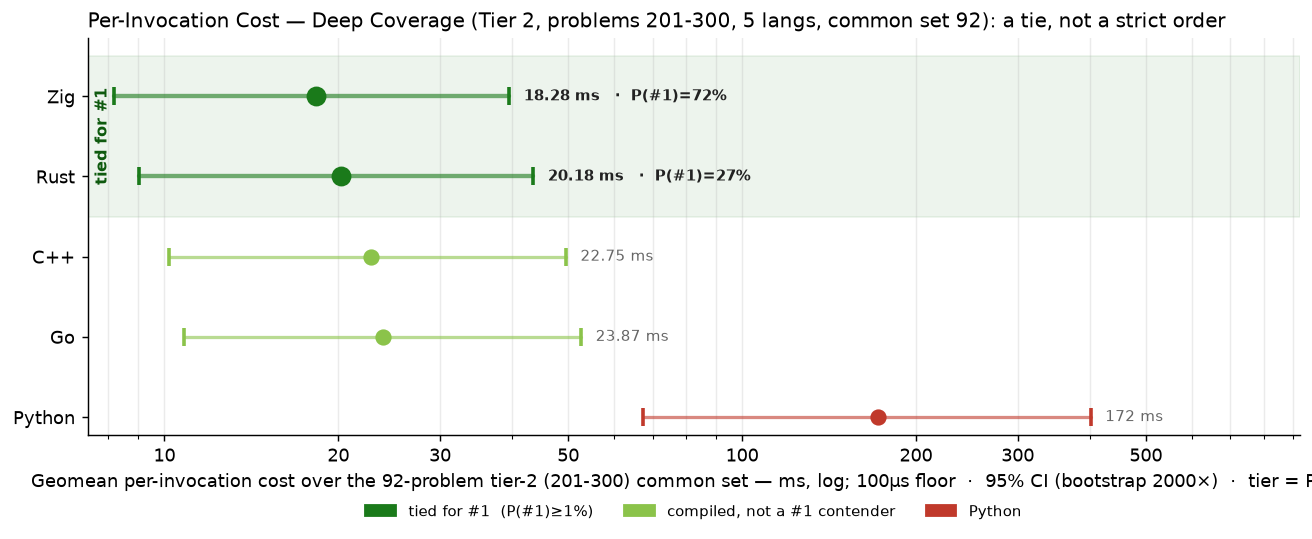
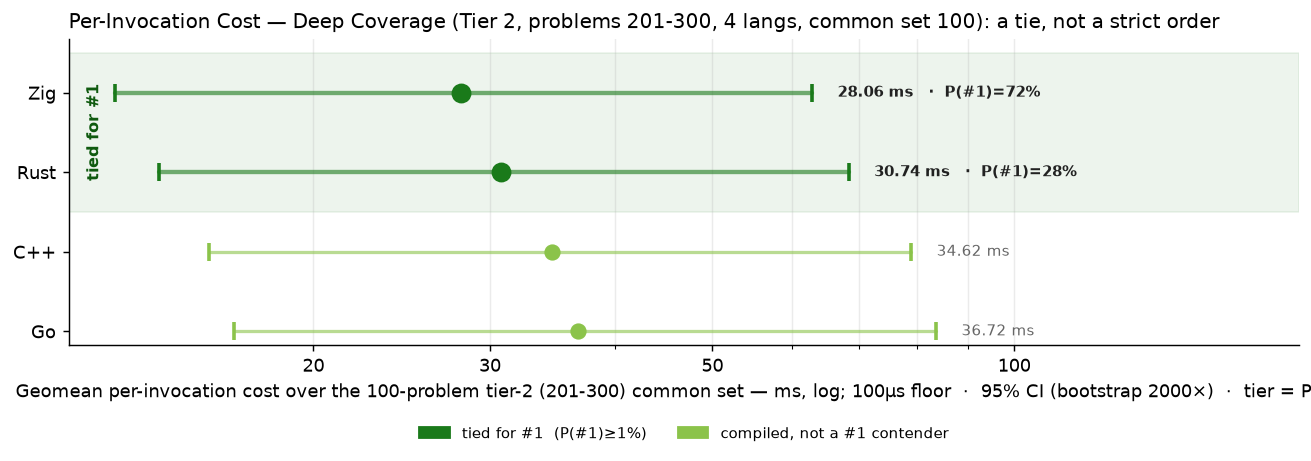
tiers: retire python from Deep Coverage; tier 2 complete at 4 langs

diff --git a/per_problem/per_problem_0201-0300.md b/per_problem/per_problem_0201-0300.md
@@ -1,4 +1,4 @@
-# Per-Problem Detail — Problems 0201–0300 (Deep Coverage, 5 langs)
+# Per-Problem Detail — Problems 0201–0300 (Deep Coverage, 4 langs)
 
 ⬅ [Back to RESULTS](../RESULTS.md)
 
@@ -6,111 +6,111 @@ Minimum internal time per fresh-process invocation (magnitude-adaptive
 samples, METHODOLOGY.md §3), one row per problem, one column per language
 in tier-1 display order (native → managed → interpreted).
 
-> _Only the 5 Deep Coverage languages are shown — the other 5 are tier-1-only_
+> _Only the 4 Deep Coverage languages are shown — the other 6 are tier-1-only_
 > _(capped at problem 200 by the project's language-cap policy)._
 
-| Problem | C++ | Rust | Zig | Go | Python |
-|---------|----:|----:|----:|----:|----:|
-| **p0201** | 499.02 ms | 36.91 ms | 42.69 ms | 518.61 ms | 506.55 ms |
-| **p0202** | 5.6 µs | 7.2 µs | 7.2 µs | 5.7 µs~ | 90.0 µs |
-| **p0203** | 100.5 µs | 49.4 µs | 84.7 µs | 80.2 µs | 345.0 µs |
-| **p0204** | 14.40 ms~ | 12.66 ms | 13.62 ms | 21.00 ms | 1.04 s |
-| **p0205** | 2.5 µs | 3.2 µs | 2.5 µs | 3.9 µs~ | 63.2 µs |
-| **p0206** | 50.03 ms | 76.18 ms | 39.29 ms | 62.85 ms | 3.72 s |
-| **p0207** | 307.1 µs | 216.8 µs | 311.0 µs | 145.8 µs | 8.42 ms |
-| **p0208** | 11.86 ms | 17.42 ms | 10.70 ms | 16.75 ms | 1.34 s |
-| **p0209** | 1.2 µs | 2.3 µs | <1 µs | 2.0 µs~ | 29.8 µs |
-| **p0210** | 455.52 ms | 775.66 ms | 341.24 ms | 274.76 ms | 1.04 s |
-| **p0211** | 3.79 s | 3.81 s | 3.80 s | 3.79 s | 10.57 s |
-| **p0212** | 6.04 s | 5.40 s | 5.32 s | 10.33 s | 17.53 s |
-| **p0213** | 88.20 ms | 81.19 ms | 167.34 ms | 107.33 ms | 3.90 s |
-| **p0214** | 483.59 ms | 576.55 ms | 475.57 ms | 614.91 ms | 13.19 s |
-| **p0215** | 5.93 ms | 6.61 ms | 5.42 ms | 10.23 ms | 359.93 ms |
-| **p0216** | 4.61 s | 2.74 s | 1.72 s | 1.76 s | 13.30 s |
-| **p0217** | 1.24 ms | 1.23 ms | 691.2 µs | 1.54 ms | 4.86 ms |
-| **p0218** | 595.79 ms | 592.43 ms | <1 µs | 646.20 ms | 1.39 s |
-| **p0219** | 2.5 µs | 1.6 µs | 1.9 µs | 2.9 µs~ | 15.3 µs |
-| **p0220** | 1.5 µs | <1 µs | 1.4 µs | 2.4 µs~ | 70.1 µs |
-| **p0221** | 19.86 ms | 10.13 ms | 13.58 ms | 45.15 ms | 253.69 ms |
-| **p0222** | 26.1 µs | 19.5 µs | 1.81 s | 31.2 µs | 1.10 ms |
-| **p0223** | 5.36 s | 4.54 s | 6.59 s | 5.49 s | 77.27 s |
-| **p0224** | 2.02 s | 1.64 s | 2.04 s | 1.69 s | 49.22 s |
-| **p0225** | 15.50 ms | 16.55 ms | 15.41 ms | 15.35 ms | 363.69 ms |
-| **p0226** | 480.98 ms | 479.69 ms | 52.79 ms | 2.38 s | 6.19 s |
-| **p0227** | 41.2 µs | 30.2 µs | 15.3 µs | 78.8 µs~ | 1.31 ms |
-| **p0228** | 16.4 µs | 14.2 µs | 10.0 µs | 14.0 µs~ | 224.2 µs |
-| **p0229** | 4.64 s | 4.68 s | 12.80 s | 5.74 s | 33.37 s |
-| **p0230** | 4.5 µs | 2.8 µs | 2.2 µs | 3.8 µs~ | 65.2 µs |
-| **p0231** | 47.47 ms | 54.52 ms | 42.28 ms | 49.75 ms | 655.06 ms |
-| **p0232** | 300.8 µs | 219.3 µs | 1.56 ms | 414.8 µs | 23.08 ms |
-| **p0233** | 27.76 ms | 27.68 ms | 18.25 ms | 29.95 ms | 3.56 s |
-| **p0234** | 3.20 ms | 2.78 ms | 2.29 ms | 2.78 ms | 107.54 ms |
-| **p0235** | 11.5 µs~ | 6.8 µs | 15.5 µs | 10.0 µs~ | 57.4 µs |
-| **p0236** | 1.73 s | 1.51 s | 1.46 s | 1.55 s | 1.73 s |
-| **p0237** | 40.5 µs~ | 29.0 µs | 10.2 µs | 20.5 µs | 357.7 µs |
-| **p0238** | 1.12 s | 1.21 s | 980.68 ms | 1.27 s | — |
-| **p0239** | <1 µs | <1 µs~ | <1 µs | 1.5 µs~ | 266.9 µs |
-| **p0240** | 69.3 µs | 69.5 µs | 31.3 µs | 141.9 µs | 1.66 ms |
-| **p0241** | 16.53 s | 10.70 s | 16.18 s | 8.44 s | — |
-| **p0242** | 1.9 µs | <1 µs | 1.5 µs | 4.8 µs~ | 18.2 µs |
-| **p0243** | 2.2 µs | <1 µs | 55.9 µs | 4.9 µs~ | 10.0 µs |
-| **p0244** | 14.48 ms | 10.08 ms | 53.65 ms | 14.90 ms | 84.98 ms |
-| **p0245** | 1.02 s | 1.54 s | 1.23 s | 705.65 ms | 20.78 s |
-| **p0246** | 1.80 s | 1.65 s | 3.60 ms | 1.92 s | 3.83 s |
-| **p0247** | 129.16 ms | 216.95 ms | 16.74 ms | 636.90 ms | 1.06 s |
-| **p0248** | 731.60 ms | 680.48 ms | 727.78 ms | 839.63 ms | 5.27 s |
-| **p0249** | 1.04 s | 1.28 s† | 200.85 ms | 1.66 s | 2.39 s |
-| **p0250** | 101.86 ms | 66.26 ms | 101.42 ms | 194.67 ms | 5.61 s |
-| **p0251** | 2.90 s | 3.14 s | 3.37 s | 3.03 s | 23.80 s |
-| **p0252** | 236.20 ms | 279.47 ms | 233.21 ms | 366.41 ms | 41.76 s |
-| **p0253** | 76.8 µs | 57.4 µs | 30.8 µs | 67.9 µs | 1.36 ms |
-| **p0254** | 329.79 ms | 312.32 ms | 468.65 ms | 359.95 ms | 24.82 s |
-| **p0255** | 452.36 ms | 467.37 ms | 623.10 ms | 582.63 ms | 54.80 s |
-| **p0256** | 1.04 s | 1.40 s | 1.01 s | 1.18 s | 4.58 s |
-| **p0257** | 358.39 ms | 350.96 ms | 357.85 ms | 373.30 ms | 1.99 s |
-| **p0258** | 179.38 ms | 515.65 ms | 194.48 ms | 247.20 ms | 170.89 ms |
-| **p0259** | 4.68 s | 1.75 s | 12.24 s | 1.32 s | 8.30 s |
-| **p0260** | 1.58 s | 1.18 s | 1.05 s | 1.81 s | 12.35 s |
-| **p0261** | 17.20 ms | 15.20 ms | 14.60 ms | 13.02 ms | 537.86 ms |
-| **p0262** | 4.05 s | 3.20 s | 3.31 s | 5.32 s | — |
-| **p0263** | 5.22 s | 2.14 s | 1.81 s | 1.52 s | 21.24 s |
-| **p0264** | 244.20 ms | 254.55 ms | 249.71 ms | 286.85 ms | 11.36 s |
-| **p0265** | 551.9 µs | 326.1 µs | 561.8 µs | 1.10 ms | 38.85 ms |
-| **p0266** | 1.49 s | 940.77 ms | 1.24 s† | 4.83 s | 11.75 s |
-| **p0267** | 18.3 µs | 21.6 µs | 14.4 µs | 30.5 µs~ | 280.4 µs |
-| **p0268** | 35.78 ms | 23.47 ms | 23.03 ms | 33.10 ms | 2.56 s |
-| **p0269** | 177.59 ms | 109.55 ms | 26.84 ms | 52.69 ms | 943.57 ms |
-| **p0270** | 656.3 µs | 522.8 µs | <1 µs | 732.2 µs | 15.32 ms |
-| **p0271** | 88.3 µs | 114.7 µs | <1 µs | 55.3 µs | 253.3 µs |
-| **p0272** | 6.42 s | 7.11 s | 6.47 s | 7.69 s | 14.04 s |
-| **p0273** | 1.67 s | 916.89 ms | 1.78 s | 4.52 s | 17.34 s |
-| **p0274** | 93.45 ms | 54.28 ms | 188.30 ms | 59.24 ms | 483.94 ms |
-| **p0275** | 81.77 s | 83.99 s | 71.03 s | 113.87 s | — |
-| **p0276** | 68.87 ms | 64.15 ms | 60.52 ms | 71.87 ms | 1.11 s |
-| **p0277** | 7.9 µs | 6.8 µs | 7.2 µs | 23.3 µs~ | 13.7 µs |
-| **p0278** | 31.22 ms | 20.47 ms | 62.08 ms | 32.07 ms | 5.52 s |
-| **p0279** | 662.58 ms | 643.42 ms | 863.82 ms | 670.51 ms | 4.93 s |
-| **p0280** | 1.51 ms | 1.32 ms | 1.18 ms | 1.48 ms | 95.77 ms |
-| **p0281** | 468.7 µs~ | 14.9 µs | 29.0 µs | 344.1 µs | 320.5 µs |
-| **p0282** | 19.1 µs | 11.3 µs | 19.0 µs | 9.2 µs~ | 118.5 µs |
-| **p0283** | 1.37 s | 1.53 s | 1.37 s | 3.04 s | — |
-| **p0284** | 239.41 ms | 240.84 ms | 259.64 ms | 307.71 ms | 14.68 s |
-| **p0285** | 3.61 ms | 3.73 ms | 4.14 ms | 4.79 ms | 7.88 ms |
-| **p0286** | 142.0 µs | 207.5 µs | 125.8 µs | 189.1 µs | 10.66 ms |
-| **p0287** | 724.98 ms | 549.47 ms | 464.10 ms | 546.42 ms | — |
-| **p0288** | 123.92 ms | 68.12 ms | 125.92 ms | 43.59 ms | 736.69 ms |
-| **p0289** | 24.94 ms | 30.55 ms | 16.49 ms | 20.88 ms | 469.88 ms |
-| **p0290** | 7.05 ms | 9.53 ms | 7.07 ms | 10.06 ms | 111.58 ms |
-| **p0291** | 1.95 s | 3.99 s | 2.64 s | 1.93 s | 25.05 s |
-| **p0292** | 399.07 ms | 447.28 ms | 343.34 ms | 413.25 ms | 254.52 ms |
-| **p0293** | 43.58 ms | 39.74 ms | 41.58 ms | 42.46 ms | 71.21 ms |
-| **p0294** | 4.21 s | 4.17 s | 4.80 s | 9.14 s | — |
-| **p0295** | 442.03 ms | 270.29 ms | 211.52 ms | 399.80 ms | 3.21 s |
-| **p0296** ‖ | 2.31 s (×8.7) ‖ | 3.18 s (×8.9) ‖ | 2.46 s (×7.7) ‖ | 3.12 s (×9.1) ‖ | 9.62 s (×3.2) ‖ |
-| **p0297** | 2.5 µs | 4.5 µs | 1.1 µs | 6.8 µs~ | 24.1 µs |
-| **p0298** | 143.64 ms | 11.04 ms | 11.87 ms | 15.41 ms | 410.77 ms |
-| **p0299** | 259.93 ms | 263.93 ms | 250.16 ms | 381.42 ms | 520.23 ms |
-| **p0300** ‖ | 4.80 s (×8.5) ‖ | 4.32 s (×8.5) ‖ | 4.47 s (×5.7) ‖ | 5.31 s (×9.1) ‖ | — |
+| Problem | C++ | Rust | Zig | Go |
+|---------|----:|----:|----:|----:|
+| **p0201** | 499.02 ms | 36.91 ms | 42.69 ms | 518.61 ms |
+| **p0202** | 5.6 µs | 7.2 µs | 7.2 µs | 5.7 µs~ |
+| **p0203** | 100.5 µs | 49.4 µs | 84.7 µs | 80.2 µs |
+| **p0204** | 14.40 ms~ | 12.66 ms | 13.62 ms | 21.00 ms |
+| **p0205** | 2.5 µs | 3.2 µs | 2.5 µs | 3.9 µs~ |
+| **p0206** | 50.03 ms | 76.18 ms | 39.29 ms | 62.85 ms |
+| **p0207** | 307.1 µs | 216.8 µs | 311.0 µs | 145.8 µs |
+| **p0208** | 11.86 ms | 17.42 ms | 10.70 ms | 16.75 ms |
+| **p0209** | 1.2 µs | 2.3 µs | <1 µs | 2.0 µs~ |
+| **p0210** | 455.52 ms | 775.66 ms | 341.24 ms | 274.76 ms |
+| **p0211** | 3.79 s | 3.81 s | 3.80 s | 3.79 s |
+| **p0212** | 6.04 s | 5.40 s | 5.32 s | 10.33 s |
+| **p0213** | 88.20 ms | 81.19 ms | 167.34 ms | 107.33 ms |
+| **p0214** | 483.59 ms | 576.55 ms | 475.57 ms | 614.91 ms |
+| **p0215** | 5.93 ms | 6.61 ms | 5.42 ms | 10.23 ms |
+| **p0216** | 4.61 s | 2.74 s | 1.72 s | 1.76 s |
+| **p0217** | 1.24 ms | 1.23 ms | 691.2 µs | 1.54 ms |
+| **p0218** | 595.79 ms | 592.43 ms | <1 µs | 646.20 ms |
+| **p0219** | 2.5 µs | 1.6 µs | 1.9 µs | 2.9 µs~ |
+| **p0220** | 1.5 µs | <1 µs | 1.4 µs | 2.4 µs~ |
+| **p0221** | 19.86 ms | 10.13 ms | 13.58 ms | 45.15 ms |
+| **p0222** | 26.1 µs | 19.5 µs | 1.81 s | 31.2 µs |
+| **p0223** | 5.36 s | 4.54 s | 6.59 s | 5.49 s |
+| **p0224** | 2.02 s | 1.64 s | 2.04 s | 1.69 s |
+| **p0225** | 15.50 ms | 16.55 ms | 15.41 ms | 15.35 ms |
+| **p0226** | 480.98 ms | 479.69 ms | 52.79 ms | 2.38 s |
+| **p0227** | 41.2 µs | 30.2 µs | 15.3 µs | 78.8 µs~ |
+| **p0228** | 16.4 µs | 14.2 µs | 10.0 µs | 14.0 µs~ |
+| **p0229** | 4.64 s | 4.68 s | 12.80 s | 5.74 s |
+| **p0230** | 4.5 µs | 2.8 µs | 2.2 µs | 3.8 µs~ |
+| **p0231** | 47.47 ms | 54.52 ms | 42.28 ms | 49.75 ms |
+| **p0232** | 300.8 µs | 219.3 µs | 1.56 ms | 414.8 µs |
+| **p0233** | 27.76 ms | 27.68 ms | 18.25 ms | 29.95 ms |
+| **p0234** | 3.20 ms | 2.78 ms | 2.29 ms | 2.78 ms |
+| **p0235** | 11.5 µs~ | 6.8 µs | 15.5 µs | 10.0 µs~ |
+| **p0236** | 1.73 s | 1.51 s | 1.46 s | 1.55 s |
+| **p0237** | 40.5 µs~ | 29.0 µs | 10.2 µs | 20.5 µs |
+| **p0238** | 1.12 s | 1.21 s | 980.68 ms | 1.27 s |
+| **p0239** | <1 µs | <1 µs~ | <1 µs | 1.5 µs~ |
+| **p0240** | 69.3 µs | 69.5 µs | 31.3 µs | 141.9 µs |
+| **p0241** | 16.53 s | 10.70 s | 16.18 s | 8.44 s |
+| **p0242** | 1.9 µs | <1 µs | 1.5 µs | 4.8 µs~ |
+| **p0243** | 2.2 µs | <1 µs | 55.9 µs | 4.9 µs~ |
+| **p0244** | 14.48 ms | 10.08 ms | 53.65 ms | 14.90 ms |
+| **p0245** | 1.02 s | 1.54 s | 1.23 s | 705.65 ms |
+| **p0246** | 1.80 s | 1.65 s | 3.60 ms | 1.92 s |
+| **p0247** | 129.16 ms | 216.95 ms | 16.74 ms | 636.90 ms |
+| **p0248** | 731.60 ms | 680.48 ms | 727.78 ms | 839.63 ms |
+| **p0249** | 1.04 s | 1.28 s† | 200.85 ms | 1.66 s |
+| **p0250** | 101.86 ms | 66.26 ms | 101.42 ms | 194.67 ms |
+| **p0251** | 2.90 s | 3.14 s | 3.37 s | 3.03 s |
+| **p0252** | 236.20 ms | 279.47 ms | 233.21 ms | 366.41 ms |
+| **p0253** | 76.8 µs | 57.4 µs | 30.8 µs | 67.9 µs |
+| **p0254** | 329.79 ms | 312.32 ms | 468.65 ms | 359.95 ms |
+| **p0255** | 452.36 ms | 467.37 ms | 623.10 ms | 582.63 ms |
+| **p0256** | 1.04 s | 1.40 s | 1.01 s | 1.18 s |
+| **p0257** | 358.39 ms | 350.96 ms | 357.85 ms | 373.30 ms |
+| **p0258** | 179.38 ms | 515.65 ms | 194.48 ms | 247.20 ms |
+| **p0259** | 4.68 s | 1.75 s | 12.24 s | 1.32 s |
+| **p0260** | 1.58 s | 1.18 s | 1.05 s | 1.81 s |
+| **p0261** | 17.20 ms | 15.20 ms | 14.60 ms | 13.02 ms |
+| **p0262** | 4.05 s | 3.20 s | 3.31 s | 5.32 s |
+| **p0263** | 5.22 s | 2.14 s | 1.81 s | 1.52 s |
+| **p0264** | 244.20 ms | 254.55 ms | 249.71 ms | 286.85 ms |
+| **p0265** | 551.9 µs | 326.1 µs | 561.8 µs | 1.10 ms |
+| **p0266** | 1.49 s | 940.77 ms | 1.24 s† | 4.83 s |
+| **p0267** | 18.3 µs | 21.6 µs | 14.4 µs | 30.5 µs~ |
+| **p0268** | 35.78 ms | 23.47 ms | 23.03 ms | 33.10 ms |
+| **p0269** | 177.59 ms | 109.55 ms | 26.84 ms | 52.69 ms |
+| **p0270** | 656.3 µs | 522.8 µs | <1 µs | 732.2 µs |
+| **p0271** | 88.3 µs | 114.7 µs | <1 µs | 55.3 µs |
+| **p0272** | 6.42 s | 7.11 s | 6.47 s | 7.69 s |
+| **p0273** | 1.67 s | 916.89 ms | 1.78 s | 4.52 s |
+| **p0274** | 93.45 ms | 54.28 ms | 188.30 ms | 59.24 ms |
+| **p0275** | 81.77 s | 83.99 s | 71.03 s | 113.87 s |
+| **p0276** | 68.87 ms | 64.15 ms | 60.52 ms | 71.87 ms |
+| **p0277** | 7.9 µs | 6.8 µs | 7.2 µs | 23.3 µs~ |
+| **p0278** | 31.22 ms | 20.47 ms | 62.08 ms | 32.07 ms |
+| **p0279** | 662.58 ms | 643.42 ms | 863.82 ms | 670.51 ms |
+| **p0280** | 1.51 ms | 1.32 ms | 1.18 ms | 1.48 ms |
+| **p0281** | 468.7 µs~ | 14.9 µs | 29.0 µs | 344.1 µs |
+| **p0282** | 19.1 µs | 11.3 µs | 19.0 µs | 9.2 µs~ |
+| **p0283** | 1.37 s | 1.53 s | 1.37 s | 3.04 s |
+| **p0284** | 239.41 ms | 240.84 ms | 259.64 ms | 307.71 ms |
+| **p0285** | 3.61 ms | 3.73 ms | 4.14 ms | 4.79 ms |
+| **p0286** | 142.0 µs | 207.5 µs | 125.8 µs | 189.1 µs |
+| **p0287** | 724.98 ms | 549.47 ms | 464.10 ms | 546.42 ms |
+| **p0288** | 123.92 ms | 68.12 ms | 125.92 ms | 43.59 ms |
+| **p0289** | 24.94 ms | 30.55 ms | 16.49 ms | 20.88 ms |
+| **p0290** | 7.05 ms | 9.53 ms | 7.07 ms | 10.06 ms |
+| **p0291** | 1.95 s | 3.99 s | 2.64 s | 1.93 s |
+| **p0292** | 399.07 ms | 447.28 ms | 343.34 ms | 413.25 ms |
+| **p0293** | 43.58 ms | 39.74 ms | 41.58 ms | 42.46 ms |
+| **p0294** | 4.21 s | 4.17 s | 4.80 s | 9.14 s |
+| **p0295** | 442.03 ms | 270.29 ms | 211.52 ms | 399.80 ms |
+| **p0296** ‖ | 2.31 s (×8.7) ‖ | 3.18 s (×8.9) ‖ | 2.46 s (×7.7) ‖ | 3.12 s (×9.1) ‖ |
+| **p0297** | 2.5 µs | 4.5 µs | 1.1 µs | 6.8 µs~ |
+| **p0298** | 143.64 ms | 11.04 ms | 11.87 ms | 15.41 ms |
+| **p0299** | 259.93 ms | 263.93 ms | 250.16 ms | 381.42 ms |
+| **p0300** ‖ | 4.80 s (×8.5) ‖ | 4.32 s (×8.5) ‖ | 4.47 s (×5.7) ‖ | 5.31 s (×9.1) ‖ |
 
 > ‖ — *parallel-class problem* (METHODOLOGY.md §5): every tier language fields its idiomatic parallel implementation; (×N) is the achieved parallel speedup (CPU time / wall time). These rows are never directly comparable to serial-class rows.
 

diff --git a/RESULTS.md b/RESULTS.md
@@ -1,6 +1,6 @@
 # Project Euler — Cross-Language Benchmarks
 
-> **Scope: 4621 in-scope cells across 1007 problems × tiered languages — 3689 measured (79.8% coverage).**
+> **Scope: 4521 in-scope cells across 1007 problems × tiered languages — 3597 measured (79.6% coverage).**
 > The cross-language ranking below is computed over the **199-problem common set** (problems in 1-200 where every language has a passing measurement) — the apples-to-apples Foundation comparison surface.  Per-tier rankings and coverage detail appear further below.
 > Growing carefully — each new problem and language is audited for state-leak
 > safety, verified for answer correctness, and added only when it cleanly fits the
@@ -45,21 +45,20 @@ How much code does each language need to solve these 200 Foundation problems, an
 
 ![Speed vs Code Size](charts/per_iter_speed_vs_size.png)
 
-## Deep Coverage — Tier 2 (5 languages, problems 201-300)
+## Deep Coverage — Tier 2 (4 languages, problems 201-300)
 
-Same per-invocation metric, restricted to the deeper subset of languages (C++, Go, Python, Rust, Zig) that intentionally pushed past problem 200. The other 5 Foundation languages are out of tier scope here — they're capped at 200 by the project's language-cap policy (see JOURNEY.md).
+Same per-invocation metric, restricted to the deeper subset of languages (C++, Go, Rust, Zig) that intentionally pushed past problem 200. The other 6 Foundation languages are out of tier scope here — they're capped at 200 by the project's language-cap policy (see JOURNEY.md).
 
-### Per-Invocation Cost (Common Set, 92 of 100 problems)
+### Per-Invocation Cost (Common Set, 100 of 100 problems)
 
 ![Per-Invocation Cost — Tier 2](charts/per_iter_total_tier2.png)
 
-| Rank | Language | Geomean (92-problem common set) | Total (sum) | Lines of code | vs Fastest |
+| Rank | Language | Geomean (100-problem common set) | Total (sum) | Lines of code | vs Fastest |
 |------|----------|--------------------:|------------:|--------------:|-----------:|
-| 1 | **Zig** | 18.28 ms | 77.84 s | 10,847 | 1.00× |
-| 2 | **Rust** | 20.18 ms | 62.78 s | 9,501 | 1.10× |
-| 3 | **C++** | 22.75 ms | 69.67 s | 12,103 | 1.24× |
-| 4 | **Go** | 23.87 ms | 76.86 s | 9,894 | 1.31× |
-| 5 | **Python** | 171.64 ms | 599.34 s | 6,767 | 9.39× |
+| 1 | **Zig** | 28.06 ms | 180.44 s | 12,515 | 1.00× |
+| 2 | **Rust** | 30.74 ms | 172.44 s | 11,102 | 1.10× |
+| 3 | **C++** | 34.62 ms | 184.26 s | 13,322 | 1.23× |
+| 4 | **Go** | 36.72 ms | 223.79 s | 11,680 | 1.31× |
 
 ### Speed vs Code Size
 
@@ -117,13 +116,13 @@ per-problem detail pages carry each failure's reason class.
 ## Per-Problem Detail
 
 Median wall time per fresh-process invocation, for each (language, problem).
-Split across 11 pages, one per 100-problem band, so this main page stays navigable.  Each band's table is tier-filtered (10 langs in Foundation bands, 5 in Deep Coverage).
+Split across 11 pages, one per 100-problem band, so this main page stays navigable.  Each band's table is tier-filtered (10 langs in Foundation bands, 4 in Deep Coverage).
 
 | Band | Tier | Languages | Page |
 |------|------|-----------|------|
 | p0001–p0100 | Foundation | 10 | [Open](per_problem/per_problem_0001-0100.md) |
 | p0101–p0200 | Foundation | 10 | [Open](per_problem/per_problem_0101-0200.md) |
-| p0201–p0300 | Deep Coverage | 5 | [Open](per_problem/per_problem_0201-0300.md) |
+| p0201–p0300 | Deep Coverage | 4 | [Open](per_problem/per_problem_0201-0300.md) |
 | p0301–p0400 | Frontier | 3 | [Open](per_problem/per_problem_0301-0400.md) |
 | p0401–p0500 | Frontier | 3 | [Open](per_problem/per_problem_0401-0500.md) |
 | p0501–p0600 | Frontier | 3 | [Open](per_problem/per_problem_0501-0600.md) |

diff --git a/README.md b/README.md
@@ -19,11 +19,11 @@ tier.  Live definitions in [`data/tiers.json`](data/tiers.json).
 | Tier | Problem range | Languages in scope | Role |
 |------|---------------|---------------------|------|
 | **Foundation** | 1–200 | All 10 (ARM64, C, C++, C#, Go, Java, JS, Python, Rust, Zig) | Apples-to-apples 10-language comparison — the headline ranking |
-| **Deep Coverage** | 201–300 | C++, Go, Python, Rust, Zig | Deeper comparison among the 5 languages that intentionally extend past 200 |
+| **Deep Coverage** | 201–300 | C++, Go, Rust, Zig | Deeper comparison among the 4 languages that intentionally extend past 200 |
 | **Frontier** | 301+ | C++, Go, Rust | Exploration zone — 3-way C++/Go/Rust verification trio on unexplored problems |
 
 Foundation problems are the apples-to-apples cross-language comparison surface.
-Deep Coverage extends 5 of those languages to harder problems; the other 5 are
+Deep Coverage extends 4 of those languages to harder problems; the other 6 are
 intentionally capped at 200 to keep the 10-language story clean.  Frontier work
 ships as paired C++/Go/Rust implementations — 3-way agreement is the
 verification protocol (see [JOURNEY.md](JOURNEY.md)).
@@ -70,7 +70,7 @@ cd benchmarks
 # Foundation tier (all 10 langs, 1-200) — the apples-to-apples surface
 cmd/euler-bench/euler-bench per-iter --lang all --problems 1-200 --iters 10 --write
 
-# Deep Coverage tier (5 langs, 201-300) — language extension
+# Deep Coverage tier (4 langs, 201-300) — language extension
 cmd/euler-bench/euler-bench per-iter --lang cpp,go,python,rust,zig --problems 201-300 --iters 10 --write
 
 # Frontier tier (3 langs, 301+) — C++/Go/Rust verification trio on unexplored work
@@ -116,7 +116,7 @@ that rejects any staged file under `data/` not on the small config allowlist
 | `scripts/tiers.py` | Shared tier helper — `load_tiers`, `langs_in_tier`, `in_scope`, etc. |
 | `scripts/sanitization_gate.py` | Pre-commit hook: rejects any raw bench data file outside the config allowlist |
 | `charts/per_iter_total.png` | Foundation per-invocation total (10 langs over the common set) |
-| `charts/per_iter_total_tier2.png` | Deep Coverage per-invocation total (5 langs over the tier-2 common set) |
+| `charts/per_iter_total_tier2.png` | Deep Coverage per-invocation total (4 langs over the tier-2 common set) |
 | `charts/per_iter_speed_vs_size.png` | Foundation speed vs source lines |
 | `charts/per_iter_speed_vs_size_tier2.png` | Deep Coverage speed vs source lines |
 | `charts/per_iter_coverage_grid.png` | Tier-aware coverage heatmap (variable bands × variable lang rows) |
